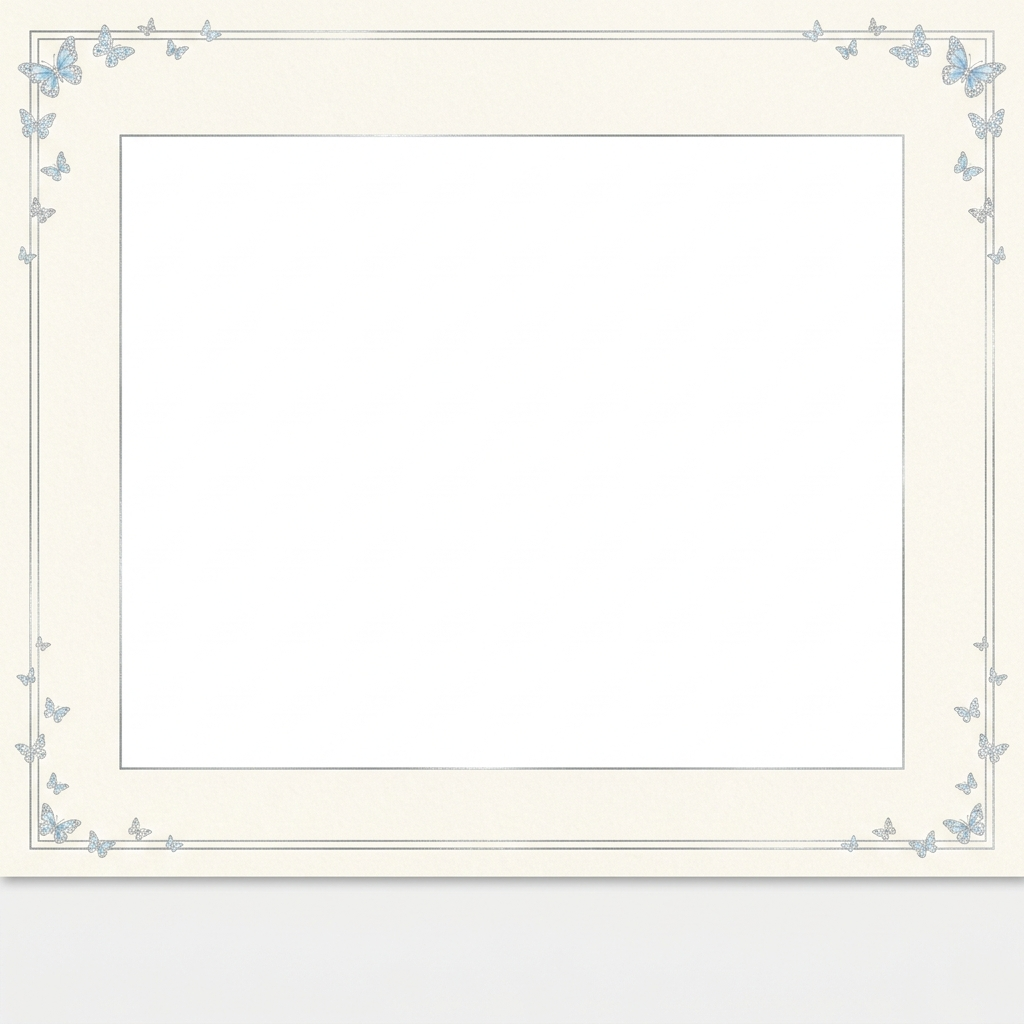
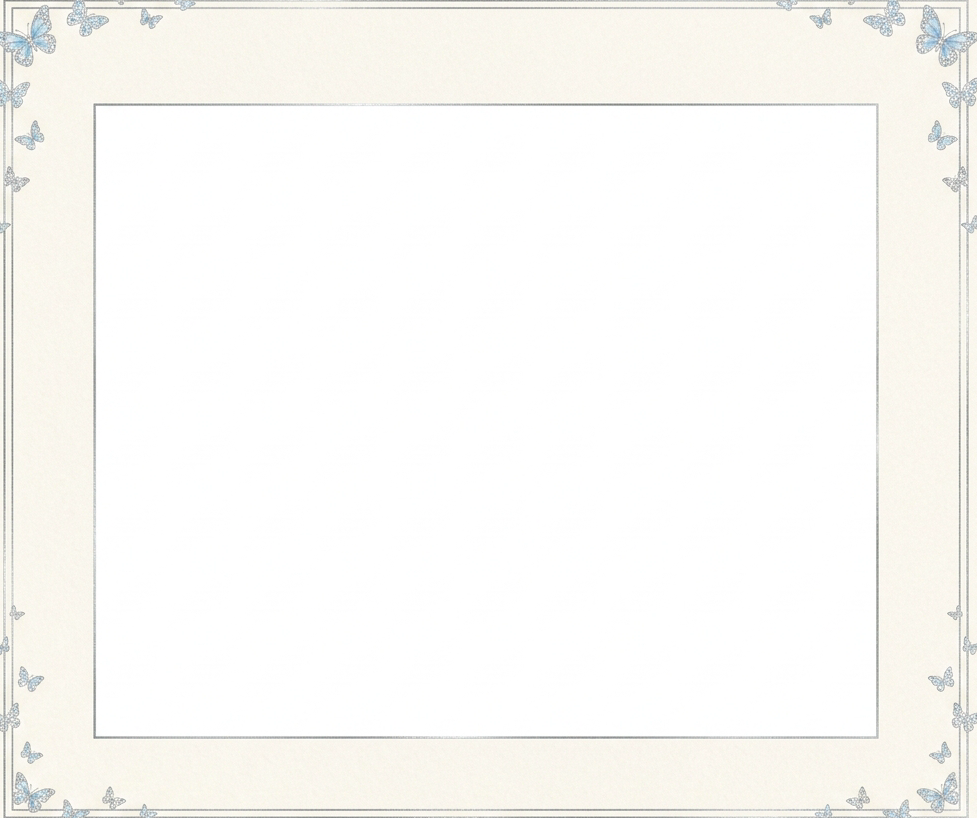
Add files via upload

diff --git a/app.js b/app.js
@@ -852,10 +852,16 @@ async function printEmptyTemplate() {
     container.innerHTML = `<img src="${templateName}.png?v=1.2.0" alt="Empty Template Color">`;
     
     // Add print orientation and empty template classes to body
-    document.body.classList.remove('print-size-a4', 'print-size-a5', 'print-orientation-landscape', 'print-orientation-portrait', 'print-template-only');
+    document.body.classList.remove(
+        'print-size-a4', 'print-size-a5', 
+        'print-orientation-landscape', 'print-orientation-portrait', 
+        'print-template-only', 'print-template-eden', 
+        'print-template-butterfly', 'print-template-royal'
+    );
     document.body.classList.add(`print-size-${sizeName}`);
     document.body.classList.add(`print-orientation-${orientation}`);
     document.body.classList.add('print-template-only');
+    document.body.classList.add(`print-template-${templateName}`);
     
     // Inject dynamic @page style to force orientation and zero margins
     let printStyleNode = document.getElementById('dynamic-print-page-style');
@@ -875,7 +881,10 @@ async function printEmptyTemplate() {
     
     // Cleanup class after print dialog is closed
     setTimeout(() => {
-        document.body.classList.remove('print-template-only');
+        document.body.classList.remove(
+            'print-template-only', 'print-template-eden', 
+            'print-template-butterfly', 'print-template-royal'
+        );
     }, 1000);
 }
 

diff --git a/index.css b/index.css
@@ -3113,11 +3113,11 @@ h1, h2, h3, h4, .logo-text, .message-typography {
 
     /* Stretch and bleed the empty template image to touch the exact edges of the sheet and cut off outer margins */
     body.print-template-only .printable-template-only-container img {
-        width: 100% !important;
-        height: 100% !important;
+        width: 102% !important;
+        height: 102% !important;
         position: absolute !important;
-        top: 0 !important;
-        left: 0 !important;
+        top: -1% !important;
+        left: -1% !important;
         object-fit: fill !important; /* Bleeds and snaps perfectly to the page boundary */
         margin: 0 !important;
         padding: 0 !important;